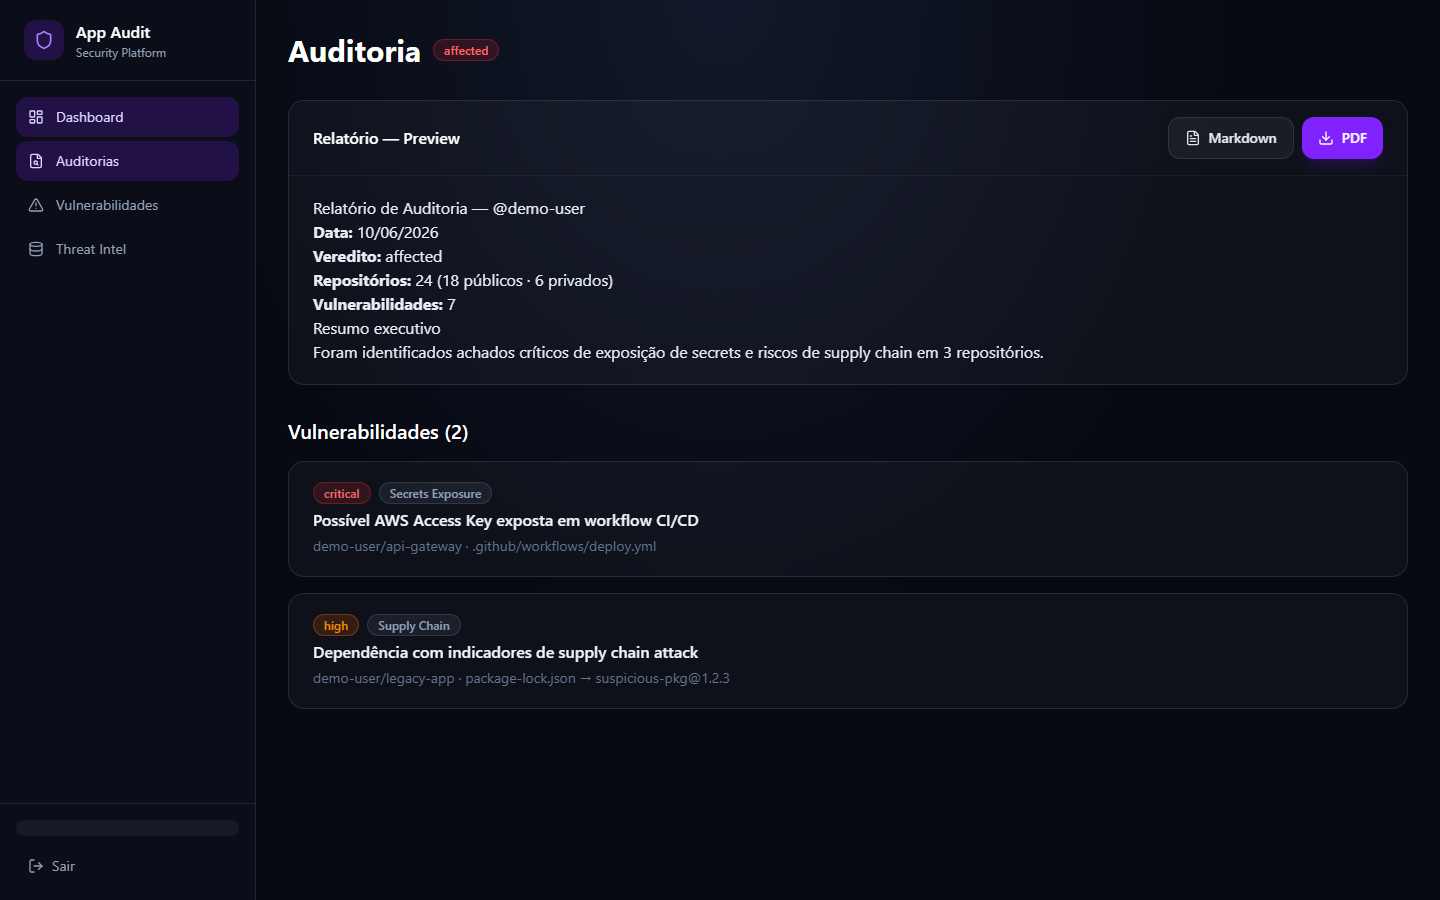
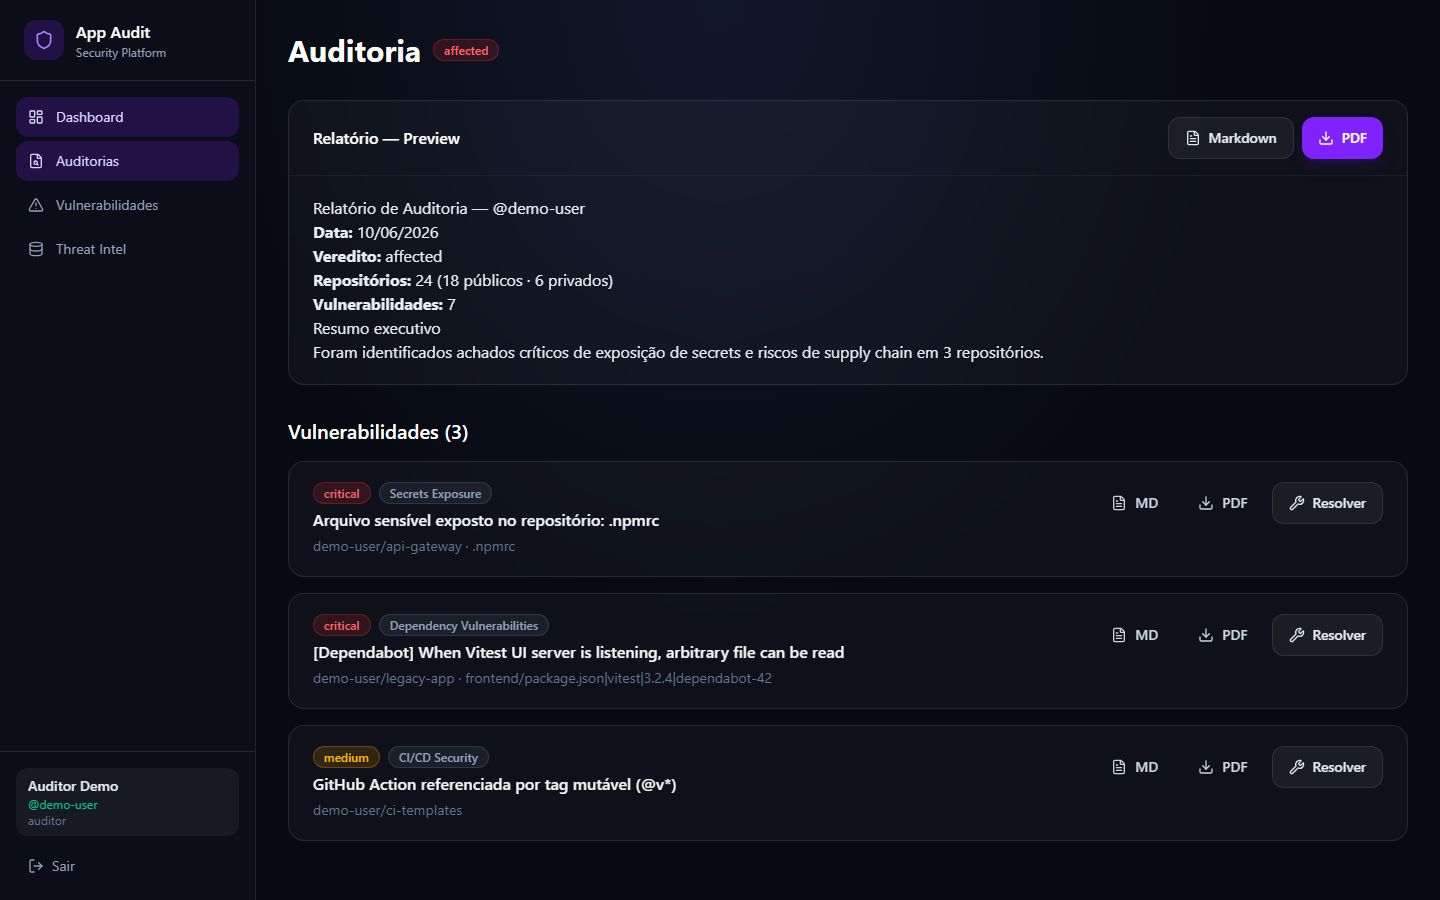
Update README and documentation to reflect new features and changes, including enhanced authentication processes, improved dashboard metrics, and the addition of user management for admin roles. Revise screenshots and descriptions for clarity and accuracy. Implement pagination in API responses for a

diff --git a/docs/screenshots.md b/docs/screenshots.md
@@ -8,7 +8,7 @@ Interface do App Audit — plataforma de auditoria de segurança para repositór
 
 ## Login
 
-Tela de autenticação com login por email/senha e opção **Entrar com GitHub** (OAuth).
+Tela de autenticação com **Entrar com GitHub** (OAuth), links para Termos e Privacidade, e login por e-mail/senha com aceite obrigatório dos termos (LGPD).
 
 ![Tela de login](./screenshots/01-login.png)
 
@@ -20,39 +20,45 @@ Modal de consentimento informado exibido antes do redirect ao GitHub: finalidade
 
 ## Dashboard
 
-Visão geral com métricas da última auditoria: repositórios, vulnerabilidades, pacotes monitorados e veredito. Quando há tarefas em execução (varredura, remediação ou sync de Threat Intel), um **banner amarelo** no topo indica progresso.
+Visão geral com card de **conta GitHub conectada** (OAuth ativo), métricas da última auditoria (repositórios, vulnerabilidades, pacotes monitorados, veredito) e atalhos para relatório e vulnerabilidades. Quando há tarefas em execução (varredura, remediação ou sync de Threat Intel), um **banner amarelo** no topo indica progresso; a sidebar exibe contador de jobs em execução.
 
 ![Dashboard](./screenshots/02-dashboard.png)
 
 ## Auditorias
 
-Histórico de varreduras, status da conexão GitHub e botão para executar nova auditoria. A varredura roda como **job assíncrono** — é possível navegar para outras telas enquanto o banner exibe o andamento.
+Histórico paginado de varreduras, status da conexão GitHub (com opção de desconectar/revogar consentimento) e botão **Nova auditoria**. A varredura roda como **job assíncrono** — é possível navegar para outras telas enquanto o banner exibe o andamento.
 
 ![Auditorias](./screenshots/03-auditorias.png)
 
 ## Detalhe da auditoria
 
-Relatório consolidado em Markdown, download PDF e lista de vulnerabilidades por repositório.
+Relatório consolidado em Markdown (com download PDF/MD), veredito e lista paginada de vulnerabilidades por repositório.
 
 ![Detalhe da auditoria](./screenshots/04-detalhe-auditoria.png)
 
 ## Vulnerabilidades
 
-Todas as categorias detectadas (Secrets, Supply Chain, CI/CD, Dependabot) com filtros por categoria e botão **Corrigir todas**.
+Todas as categorias detectadas na última auditoria (Secrets, Supply Chain, CI/CD, Dependabot) com filtros por categoria, paginação e botão **Corrigir todas (N)** para remediação em lote.
 
 ![Vulnerabilidades](./screenshots/05-vulnerabilidades.png)
 
 ## Remediação automática
 
-Plano de remediação, aplicação automática via Git workspace (manifesto + lockfile) e Pull Request quando o branch padrão é protegido.
+Plano de remediação expandido no card da vulnerabilidade, passos automatizados e botão **Aplicar correção** (job assíncrono). Remediação exige consentimento informado na primeira utilização.
 
 ![Remediação automática](./screenshots/07-remediacao.png)
 
 ## Threat Intelligence
 
-Status da sincronização com GitHub Advisories e OpenSourceMalware. O botão **Sincronizar** usa o store global de tarefas — o estado persiste ao navegar entre menus (banner + sidebar).
+Status da sincronização com GitHub Advisories e OpenSourceMalware: última sync, pacotes monitorados, repositórios baseline e indicadores de fontes habilitadas. O botão **Sincronizar** usa o store global de tarefas — o estado persiste ao navegar entre menus (banner + sidebar).
 
 ![Threat Intelligence](./screenshots/06-threat-intel.png)
+
+## Administração
+
+Visível apenas para usuários com papel **admin**. Listagem paginada de usuários (nome, e-mail, papel) e formulário para criar novos usuários com papéis RBAC (`admin`, `auditor`, `viewer`).
+
+![Administração](./screenshots/08-administracao.png)
 
 ## Atualizar capturas
 

diff --git a/README.md b/README.md
@@ -117,7 +117,7 @@ Capturar de tela das interfaces (dados de demonstração). Galeria completa: [do
 
 ### Login
 
-Autenticação por e-mail/senha e **Entrar com GitHub** (OAuth).
+Autenticação por e-mail/senha (com aceite de Termos e Privacidade) e **Entrar com GitHub** (OAuth).
 
 ![Tela de login](./docs/screenshots/01-login.png)
 
@@ -129,19 +129,19 @@ Modal exibido antes do redirect ao GitHub: finalidades, permissões OAuth e dire
 
 ### Dashboard
 
-Métricas da última auditoria: repositórios, vulnerabilidades, pacotes monitorados e veredito.
+Card de conta GitHub conectada, métricas da última auditoria (repositórios, vulnerabilidades, pacotes monitorados, veredito) e atalhos para relatório.
 
 ![Dashboard](./docs/screenshots/02-dashboard.png)
 
 ### Auditorias
 
-Histórico de varredura, status da conexão GitHub e nova auditoria em todos os repositórios. Varreduras, remediações e sync de Threat Intel **continuam em segundo plano** — você pode navegar entre telas enquanto o job executa; o banner no topo exibe progresso e status.
+Histórico paginado, status da conexão GitHub (desconectar/revogar consentimento) e **Nova auditoria**. Varreduras, remediações e sync de Threat Intel **continuam em segundo plano** — você pode navegar entre telas enquanto o job executa; o banner no topo e a sidebar exibem progresso.
 
 ![Auditorias](./docs/screenshots/03-auditorias.png)
 
 ### Detalhe da auditoria
 
-Relatório Markdown, download PDF e vulnerabilidades por repositório.
+Relatório Markdown, download PDF/MD e vulnerabilidades paginadas por repositório.
 
 ![Detalhe da auditoria](./docs/screenshots/04-detalhe-auditoria.png)
 
@@ -155,21 +155,27 @@ Relatório Markdown, download PDF e vulnerabilidades por repositório.
 
 ### Vulnerabilidades
 
-Todas as categorias detectadas (Secrets, Supply Chain, CI/CD, Dependabot) com filtros e remediação automática.
+Todas as categorias detectadas (Secrets, Supply Chain, CI/CD, Dependabot) com filtros, paginação e remediação automática em lote.
 
 ![Vulnerabilidades](./docs/screenshots/05-vulnerabilidades.png)
 
 ### Remediação automática
 
-Plano de remediação expandido, botão *Corrigir todas* e resultado com passos aplicados / link de PR.
+Plano de remediação expandido, passos automatizados e botão *Aplicar correção* (job assíncrono).
 
 ![Remediação automática](./docs/screenshots/07-remediacao.png)
 
 ### Threat Intelligence
 
-Sincronização com GitHub Advisories e OpenSourceMalware. A UI mantém o estado de sync em segundo plano via `background-tasks-store` (mesmo banner e sidebar das auditorias).
+Sincronização com GitHub Advisories e OpenSourceMalware (pacotes, repositórios baseline, fontes habilitadas). A UI mantém o estado de sync em segundo plano via `background-tasks-store`.
 
 ![Threat Intelligence](./docs/screenshots/06-threat-intel.png)
+
+### Administração
+
+Gestão de usuários e papéis RBAC — visível apenas para `admin`.
+
+![Administração](./docs/screenshots/08-administracao.png)
 
 Para regenerar as capturas de tela: `npm run docs:screenshots` (frontend em `http://localhost:3001`).
 

diff --git a/docs/README.md b/docs/README.md
@@ -47,6 +47,10 @@
 |-----------------------|---------------------|
 | ![Remediação](./screenshots/07-remediacao.png) | ![Threat Intel](./screenshots/06-threat-intel.png) |
 
+| Administração (admin) |
+|-----------------------|
+| ![Administração](./screenshots/08-administracao.png) |
+
 Detalhes e instruções para atualizar as capturas de tela: [screenshots.md](./screenshots.md).
 
 ## Collections API
